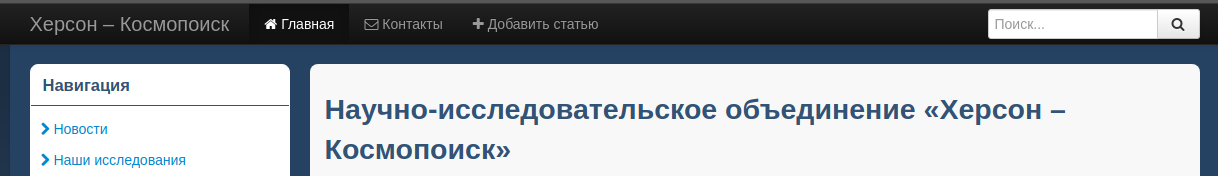
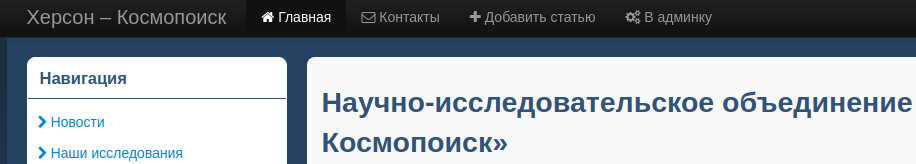
changed description a changes

Changed region(s): [[0.0, 0.3354, 1.0, 1.0], [0.0, 0.0, 1.0, 0.2744]]

diff --git a/application/views/backend/dashboard/v_index.php b/application/views/backend/dashboard/v_index.php
@@ -3,7 +3,7 @@
 <h4 class="text-success">Привет, <?php echo $user->username ?> :)</h4>
 <hr>
 <h5>Обновления CMS:</h5>
-<p><span class="label label-info">[2021.06.24]</span> В админке для добавления или редактирования статьи поля: "Теги" и "Первоисточник" теперь заполняются под "Полный текст статьи". Вкладка "Другое" убрана - так меньше движений совершать нужно и чтобы если нужно, то не забывать их заполнять</p>
+<p><span class="label label-info">[2021.06.24]</span> В админке для добавления или редактирования статьи поля: "Теги" и "Первоисточник" теперь заполняются под "Полный текст статьи". Вкладка "Другое", где они раньше находились - убрана, т.к. в этом случае нужно совершать меньше движений при заполнении, ну и не забывать их заполнять, если требуется</p>
 <p><?php echo HTML::image('uploads/images/tags-link.png', array('class' => 'img-rounded', 'style' => 'width: 870px')) ?></p>
 <hr>
 <p><span class="label label-info">[2021.06.24]</span> Если залогинены под админом - можно редактировать статью прямо с сайта нажав на значок <i class="icon-edit"></i> который будет виден перед названием статьи</p>
@@ -12,10 +12,10 @@
 <p><span class="label label-info">[2021.06.24]</span> Внизу на главной показывается <a href="https://kosmopoisk.ks.ua#tags" target="_blank">список тегов</a></p>
 <p><?php echo HTML::image('uploads/images/tags.png', array('class' => 'img-rounded', 'style' => 'width: 870px')) ?></p>
 <hr>
-<p><span class="label label-info">[2021.06.22]</span> Если залогинены как админ есть в меню кнопка '+ Добавить статью', чтобы не переходить в админку</p>
+<p><span class="label label-info">[2021.06.22]</span> Если залогинены, в меню будет кнопка '+ Добавить статью' для удобного пользования и меньших телодвижений.<br>Так же кнопка 'В админку'</p>
 <p><?php echo HTML::image('uploads/images/add_article.png', array('class' => 'img-rounded', 'style' => 'width: 870px')) ?></p>
 <hr>
-<p><span class="label label-info">[2021.06.02]</span> Перенес панель с меню вправо. При добавлении статьи удобнее видеть редактор текста посредине экрана.</p>
+<p><span class="label label-info">[2021.06.02]</span> Перенес панель с меню вправо. Теперь при добавлении или редактировании статьи редактор текста получается почти посредине экрана, что удобнее.</p>
 <p><?php echo HTML::image('uploads/images/panel.png', array('class' => 'img-rounded', 'style' => 'width: 870px')) ?></p>
 <hr>
 <p><span class="label label-info">[2012.10.30]</span> При добавлении (редактировании) статьи появилась вкладка "Другое", туда перенесены теги статьи и добавлено поле для ссылки на первоисточник статьи, если такавой есть</p>
